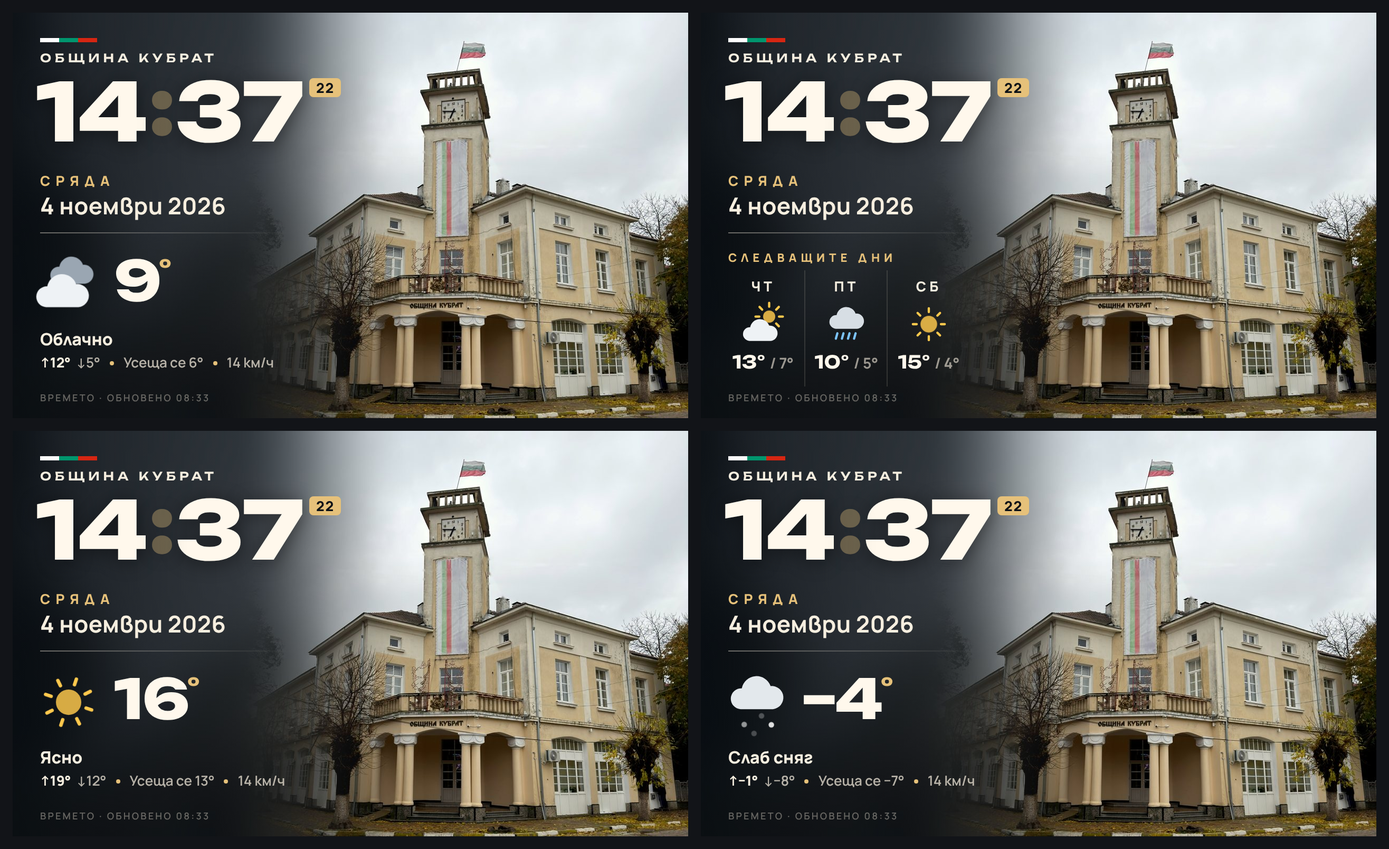
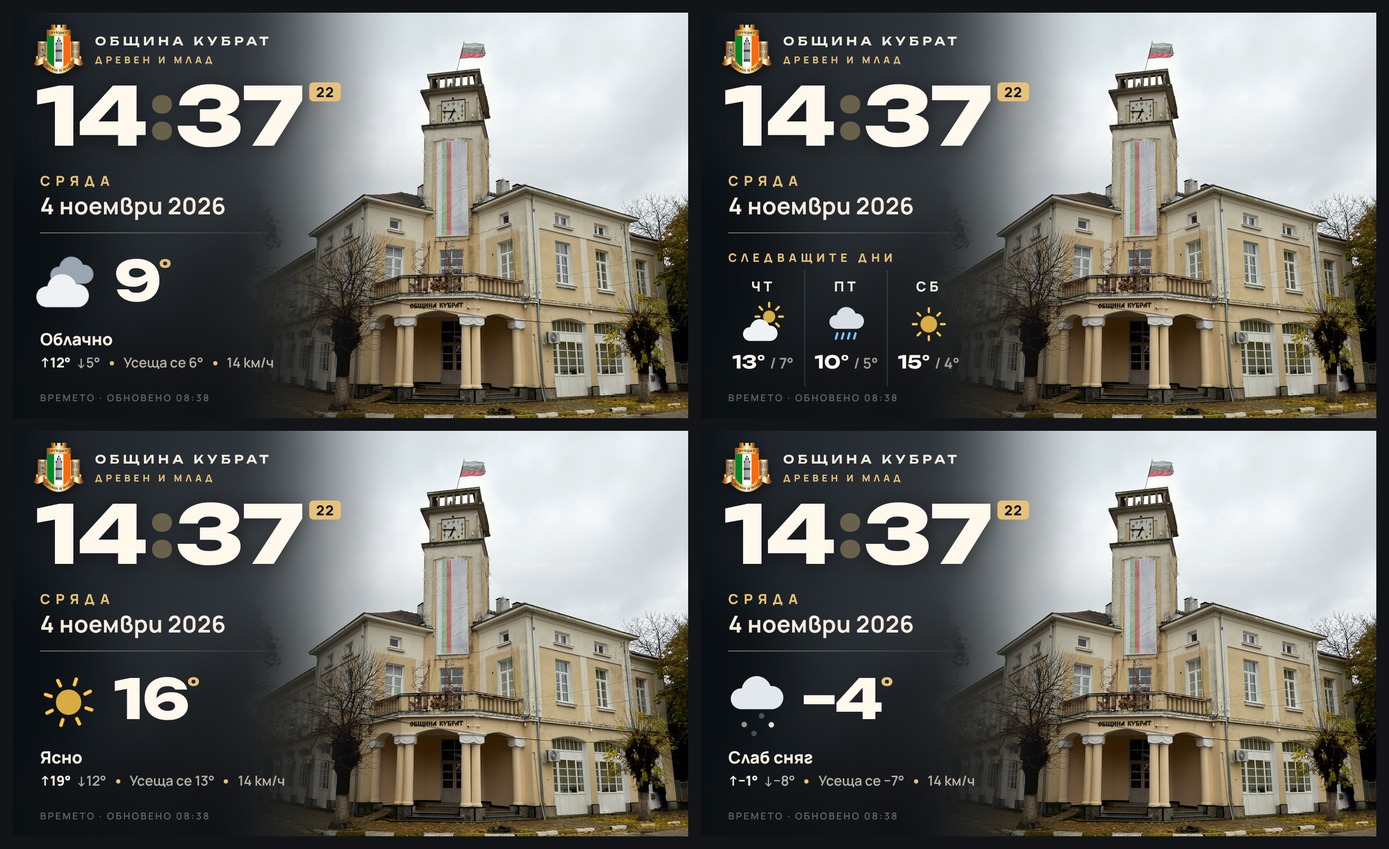
Billboard: replace flag bar with municipality crest
Claude-Session: https://claude.ai/code/session_01MagKcJwW9NUsFBFekZBo3P

diff --git a/obshtina-kubrat-chas-vreme-640x384.html b/obshtina-kubrat-chas-vreme-640x384.html
@@ -42,13 +42,15 @@
           background:linear-gradient(90deg, rgba(8,13,18,.55) 0%, rgba(8,13,18,.25) 70%, rgba(8,13,18,0) 100%); }
 
   /* ── бранд ── */
-  #flag { left:26px; top:24px; width:54px; height:4px; }
-  #flag i { float:left; width:18px; height:4px; }
-  #brand { left:26px; top:36px; font-family:"Unbounded", "Manrope", sans-serif; font-weight:600; font-size:11px;
+  #crest { left:20px; top:11px; width:47px; height:47px;
[1 lines of base64/hex data omitted]
+           -webkit-filter:drop-shadow(0 2px 5px rgba(0,0,0,.55)); filter:drop-shadow(0 2px 5px rgba(0,0,0,.55)); }
+  #motto { left:78px; top:38px; font-weight:800; font-size:9px; letter-spacing:3.2px; color:#E6C17A; }
+  #brand { left:78px; top:20px; font-family:"Unbounded", "Manrope", sans-serif; font-weight:600; font-size:11px;
            letter-spacing:3.4px; color:#F6EEDF; }
 
   /* ── час ── */
-  #time { left:22px; top:56px; font-family:"Unbounded", "Manrope", sans-serif; font-weight:800; font-size:76px;
+  #time { left:22px; top:60px; font-family:"Unbounded", "Manrope", sans-serif; font-weight:800; font-size:76px;
           line-height:1; letter-spacing:-1px; color:#FFF8EC; text-shadow:0 2px 18px rgba(0,0,0,.45); }
   #time .c { position:relative; top:-6px; padding:0 1px; color:#E6C17A;
              -webkit-animation:blink 2s steps(1) infinite; animation:blink 2s steps(1) infinite; }
@@ -116,8 +118,9 @@
   <div id="bg"></div>
   <div id="veil"></div>
 
-  <div class="a" id="flag"><i style="background:#FFFFFF"></i><i style="background:#00966E"></i><i style="background:#D62612"></i></div>
+  <div class="a" id="crest"></div>
   <div class="a" id="brand">ОБЩИНА КУБРАТ</div>
+  <div class="a" id="motto">ДРЕВЕН И МЛАД</div>
 
   <div class="a" id="time">--<span class="c">:</span>--</div>
   <div class="a" id="day">&nbsp;</div>
